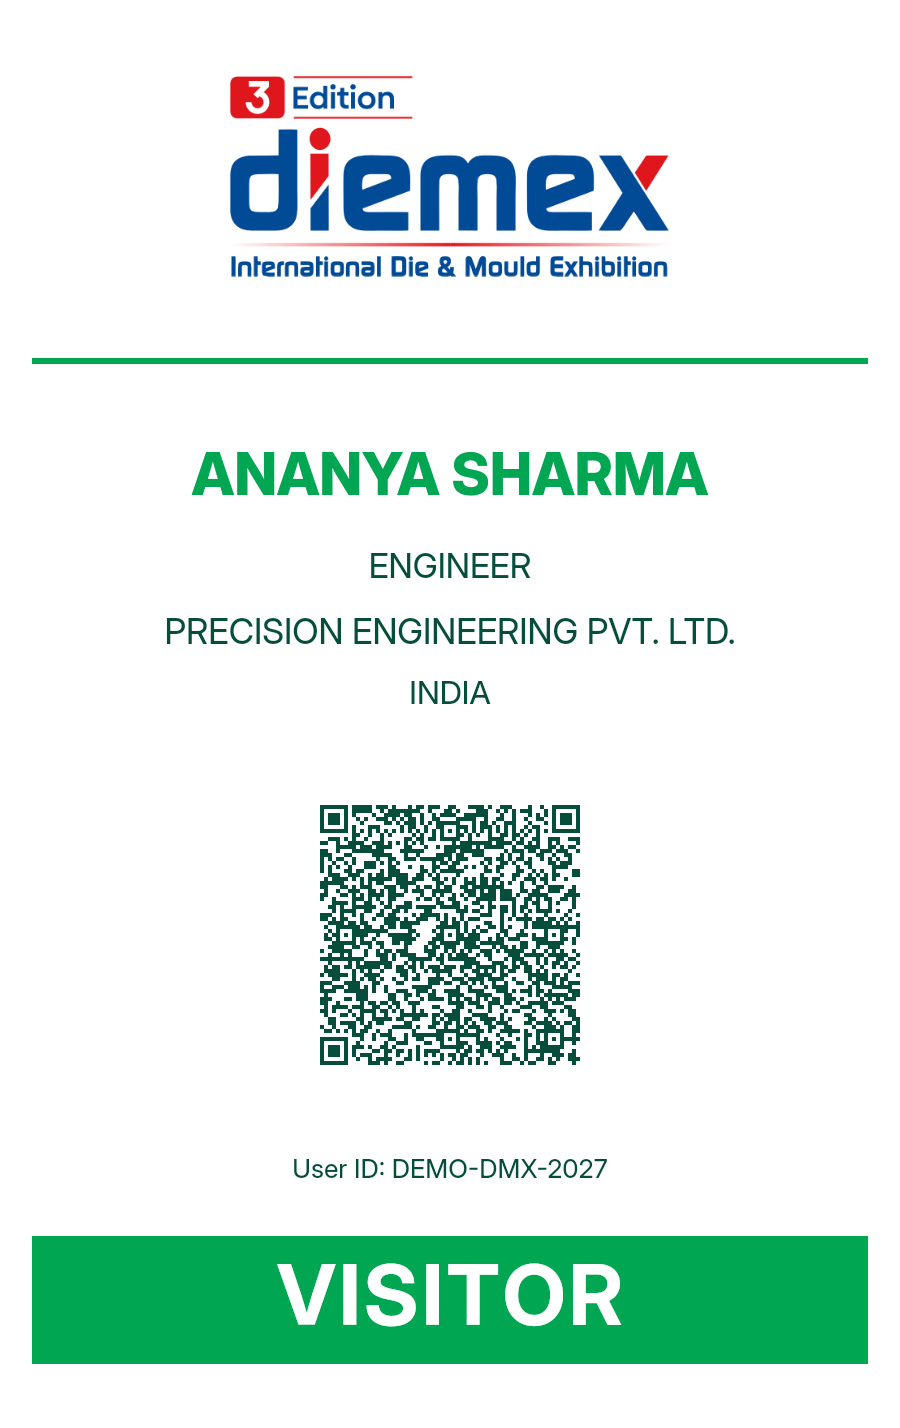
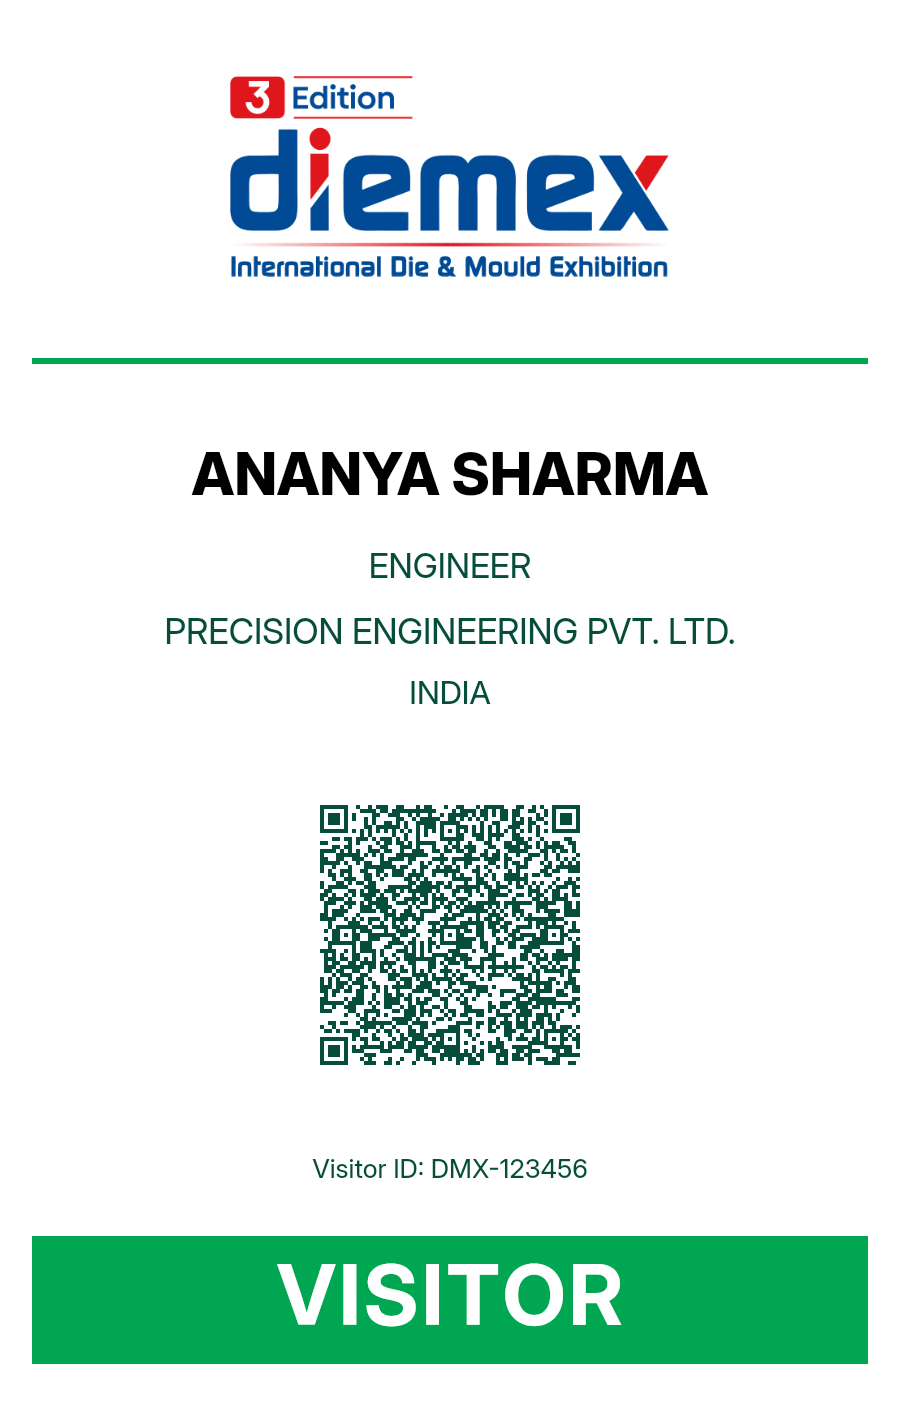
badge designs

Changed region(s): [[0.3422, 0.5546, 0.6533, 0.7395], [0.2178, 0.3081, 0.7778, 0.3697], [0.3422, 0.8011, 0.6844, 0.8319]]

diff --git a/src/services/badges/design2.js b/src/services/badges/design2.js
@@ -15,7 +15,7 @@ module.exports = function drawDesign2(ctx, logo, pass) {
   ctx.fillRect(32, 358, WIDTH - 64, 6);
 
   textBlock(ctx, cleanText(name).toUpperCase(), {
-    top: 428, height: 100, width: 816, size: 58, minSize: 32, maxLines: 2, weight: 800, color: GREEN,
+    top: 428, height: 100, width: 816, size: 58, minSize: 32, maxLines: 2, weight: 800, color: '#000000',
   });
   let detailsTop = 546;
   if (cleanText(designation)) {
@@ -35,7 +35,8 @@ module.exports = function drawDesign2(ctx, logo, pass) {
 
   // There is no profile image; the QR is centred across the full badge width.
   drawQr(ctx, qrPayload, { x: 243, y: 728, size: 414 }, DARK_GREEN, 'H');
-  textBlock(ctx, 'User ID: ' + cleanText(registrationNumber), {
+  const visitorId = 'DMX-' + cleanText(registrationNumber).replace(/\D/g, '').slice(-6);
+  textBlock(ctx, 'Visitor ID: ' + visitorId, {
     top: 1148, height: 44, width: 820, size: 26, minSize: 17, maxLines: 1, weight: 450,
   });
   ctx.fillStyle = GREEN;

diff --git a/src/services/VisitorBadgePreview.js b/src/services/VisitorBadgePreview.js
@@ -3,7 +3,7 @@ const { renderVisitorBadge } = require('./VisitorBadgeRenderer');
 function renderBadgePreview(design = 'design1') {
   const name = 'Ananya Sharma';
   const company = 'Precision Engineering Pvt. Ltd.';
-  const registrationNumber = 'DEMO-DMX-2027';
+  const registrationNumber = design === 'design2' ? 'DEMO-DMX-2027-123456' : 'DEMO-DMX-2027';
   const event = { name: 'DIEMEX 2027', dates: '24\u201326 Mar 2027', venue: 'Auto Cluster Exhibition Centre, Pune' };
   const qrPayload = [event.name, 'DESIGN PREVIEW - NOT VALID FOR ENTRY', 'Name: ' + name,
     'Company: ' + company, 'Code: ' + registrationNumber, 'Date: ' + event.dates].join('\n');

diff --git a/tests/passes.test.js b/tests/passes.test.js
@@ -463,7 +463,7 @@ describe('admin badge design selection', () => {
     expect(response.headers['content-type']).toMatch(/^image\/png/);
     expect(response.headers['cache-control']).toBe('no-store');
     expect(mockBadgeRenderer.renderVisitorBadge).toHaveBeenCalledWith(expect.objectContaining({
-      design: 'design2', registrationNumber: 'DEMO-DMX-2027', designation: 'Engineer', country: 'India'
+      design: 'design2', registrationNumber: 'DEMO-DMX-2027-123456', designation: 'Engineer', country: 'India'
     }));
     expect(mockBadgeSettingModel.upsert).not.toHaveBeenCalled();
     expect(mockMessaging.sendPass).not.toHaveBeenCalled();

diff --git a/docs/BADGE_DESIGNS.md b/docs/BADGE_DESIGNS.md
@@ -11,12 +11,13 @@ record and QR payload. Previously delivered WhatsApp messages retain their attac
 
 - **Design 1:** the existing white badge with blue top band, red accents and angled blue footer.
 - **Design 2:** green layout in this exact order: logo, name, designation, company, country,
-  centred QR, user ID, VISITOR. There is no profile photo, avatar, date line, venue or footer note.
+  centred QR, visitor ID, VISITOR. There is no profile photo, avatar, date line, venue or footer note.
   The provided DIEMEX logo retains its original artwork. Layout colours are green `#00A651`
-  and dark green `#064E3B`; no DIEMEX blue/red is used for the layout or QR in Design 2.
+  and dark green `#064E3B`, with the name in black `#000000`; no DIEMEX blue/red is used for the layout or QR in Design 2.
 
-Both designs are 900 x 1428 PNGs. Design 2's **User ID** displays the existing registrationNumber
-(e.g. REG-DMX-28082026-750281), not an internal database UUID or a new ID. Missing designation
+Both designs are 900 x 1428 PNGs. Design 2's **Visitor ID** displays `DMX-` followed by the last six digits of the registration number
+(e.g. REG-DMX-28082026-750281 displays as **DMX-750281**). This is a display label only; the full
+registration number and QR payload remain unchanged. Missing designation
 or country values are omitted; details are never invented. The renderer fits long text into
 fixed regions and leaves a white margin around the QR.
 
@@ -27,7 +28,7 @@ Paths in this table are relative to `diemex-backend`.
 | File | Responsibility |
 | --- | --- |
 | `src/services/badges/design1.js` | Design 1 layout: logo position, name/company, dates/venue, angled footer and VISITOR text. Edit only this file to change Design 1's arrangement. |
-| `src/services/badges/design2.js` | Design 2 layout: green colours, logo, name/designation/company/country, centred QR, user ID and final VISITOR band. Edit this file to change Design 2's arrangement. |
+| `src/services/badges/design2.js` | Design 2 layout: green colours, logo, name/designation/company/country, centred QR, visitor ID and final VISITOR band. Edit this file to change Design 2's arrangement. |
 | `src/services/badges/artwork.js` | Shared image dimensions, logo/font loading, text wrapping/shrinking, letter spacing and QR drawing. Default blue/red colours used by Design 1 live here; Design 2 declares its green palette in design2.js. |
 | `src/services/VisitorBadgeRenderer.js` | Validates badge inputs, selects the requested design, creates the canvas and returns the final PNG buffer. It defaults to Design 1 when called without a design. |
 | `src/services/badges/designs.js` | Allowed design IDs, display names/descriptions and default design. |

diff --git a/docs/VISITOR_PASS_SETUP.md b/docs/VISITOR_PASS_SETUP.md
@@ -38,8 +38,8 @@ WhatsApp deliveries attach a full 900 x 1428 portrait PNG instead of a standalon
 Two designs are available through **Badge Designs** at `/admin/badge-designs` after deployment.
 Design 1 preserves the existing blue/red angled layout and remains the default.
 Design 2 uses green, removes the profile image and follows this order:
-logo, name, designation, company, country, centred QR, user ID, VISITOR.
-The user ID is the existing registration number. The supplied DIEMEX logo keeps its original artwork.
+logo, name, designation, company, country, centred QR, visitor ID, VISITOR.
+The name is black. The visitor ID displays DMX- followed by the last six registration-number digits; the full ID and QR data stay unchanged. The supplied DIEMEX logo keeps its original artwork.
 
 An active admin can preview either design and save the global choice. The selection is stored in
 visitor_badge_settings and applies to the next WhatsApp badge delivery/resend, without changing
